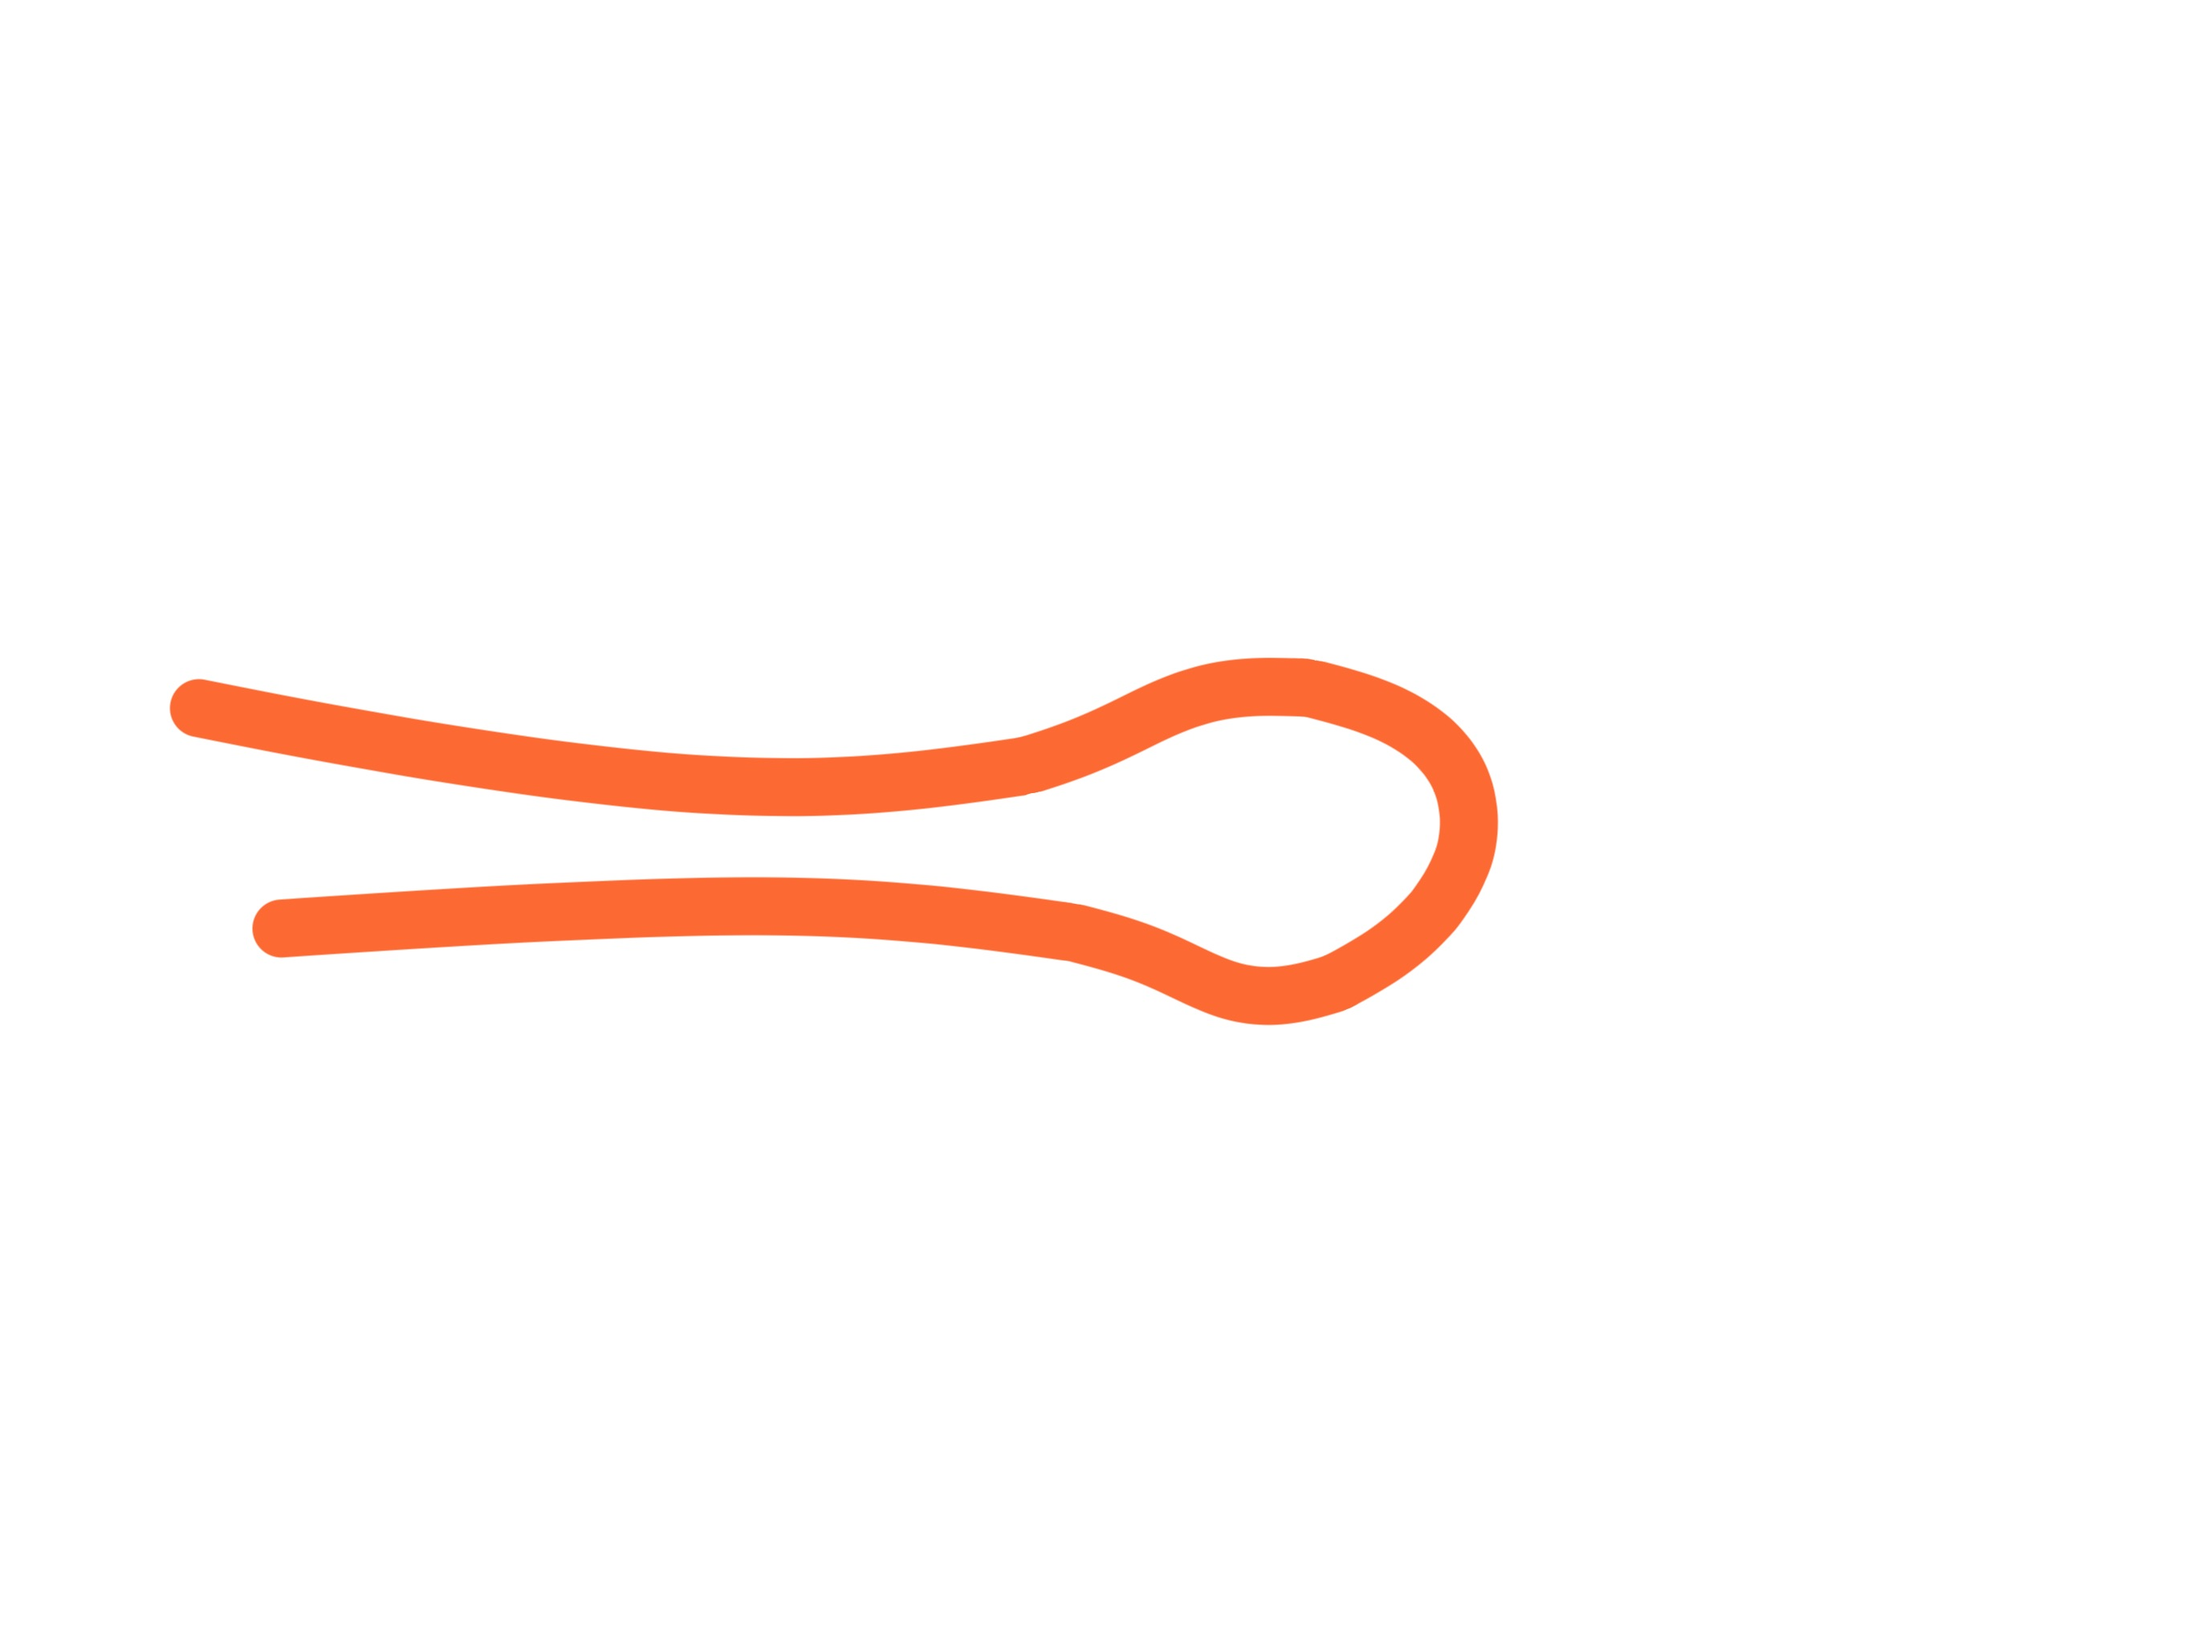
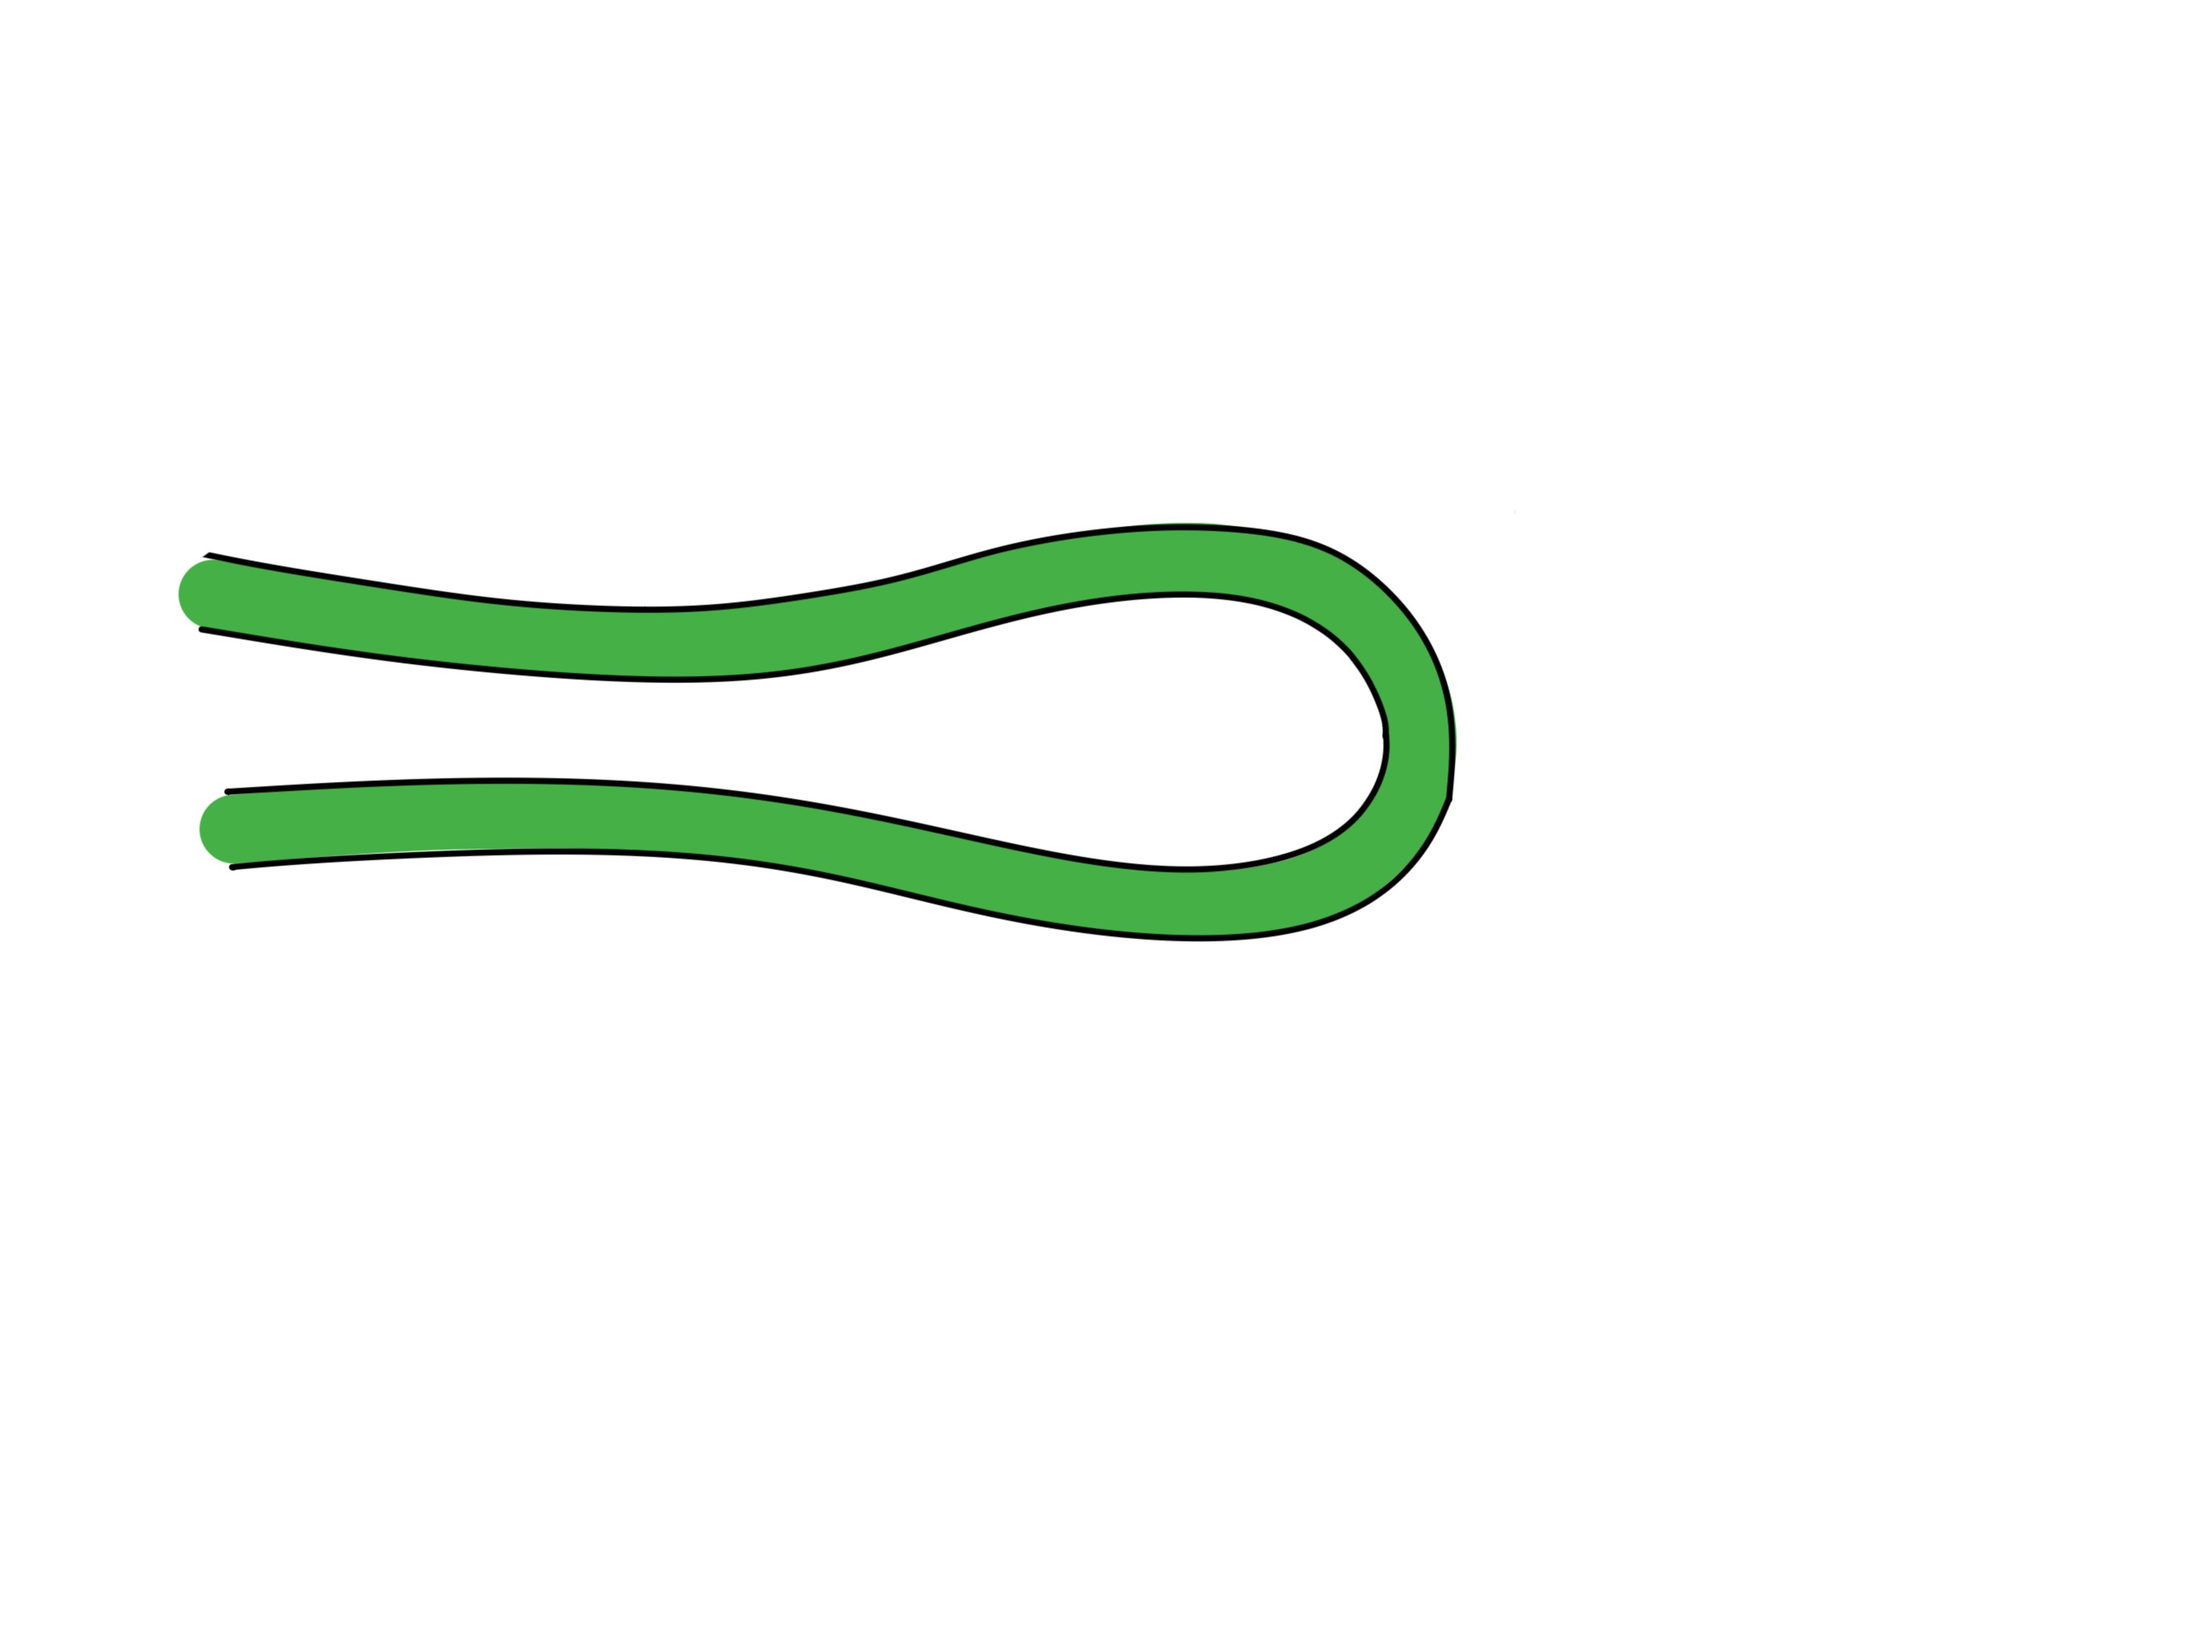
butterfly knot

Changed region(s): [[0.0622, 0.3125, 0.6845, 0.625]]

diff --git a/_posts/2022-06-05-butterfly-knot.md b/_posts/2022-06-05-butterfly-knot.md
@@ -1,0 +1,15 @@
+---
+layout: post
+title: "Butterfly Knot"
+date:   2022-06-05 16:16:23 +0200
+categories: knots
+---
+
+
+![Image](/blog/assets/images/butterfly_knot_1.jpg)
+![Image](/blog/assets/images/butterfly_knot_2.jpg)
+![Image](/blog/assets/images/butterfly_knot_3.jpg)
+![Image](/blog/assets/images/butterfly_knot_4.jpg)
+![Image](/blog/assets/images/butterfly_knot_5.jpg)
+![Image](/blog/assets/images/butterfly_knot_6.jpg)
+![Image](/blog/assets/images/butterfly_knot_7.jpg)

diff --git a/_posts/2022-06-05-replace-ip-bsd-loopback.md b/_posts/2022-06-05-replace-ip-bsd-loopback.md
@@ -13,7 +13,7 @@ BSD loopback header is not supported by tcprewrite if you want to replace ip adr
 Change DLT and add ethernet header to each packet.
 
 
-## Setup 
+## Setup
 
 | Software   | Version          |
 |:-----------|:-----------------|
